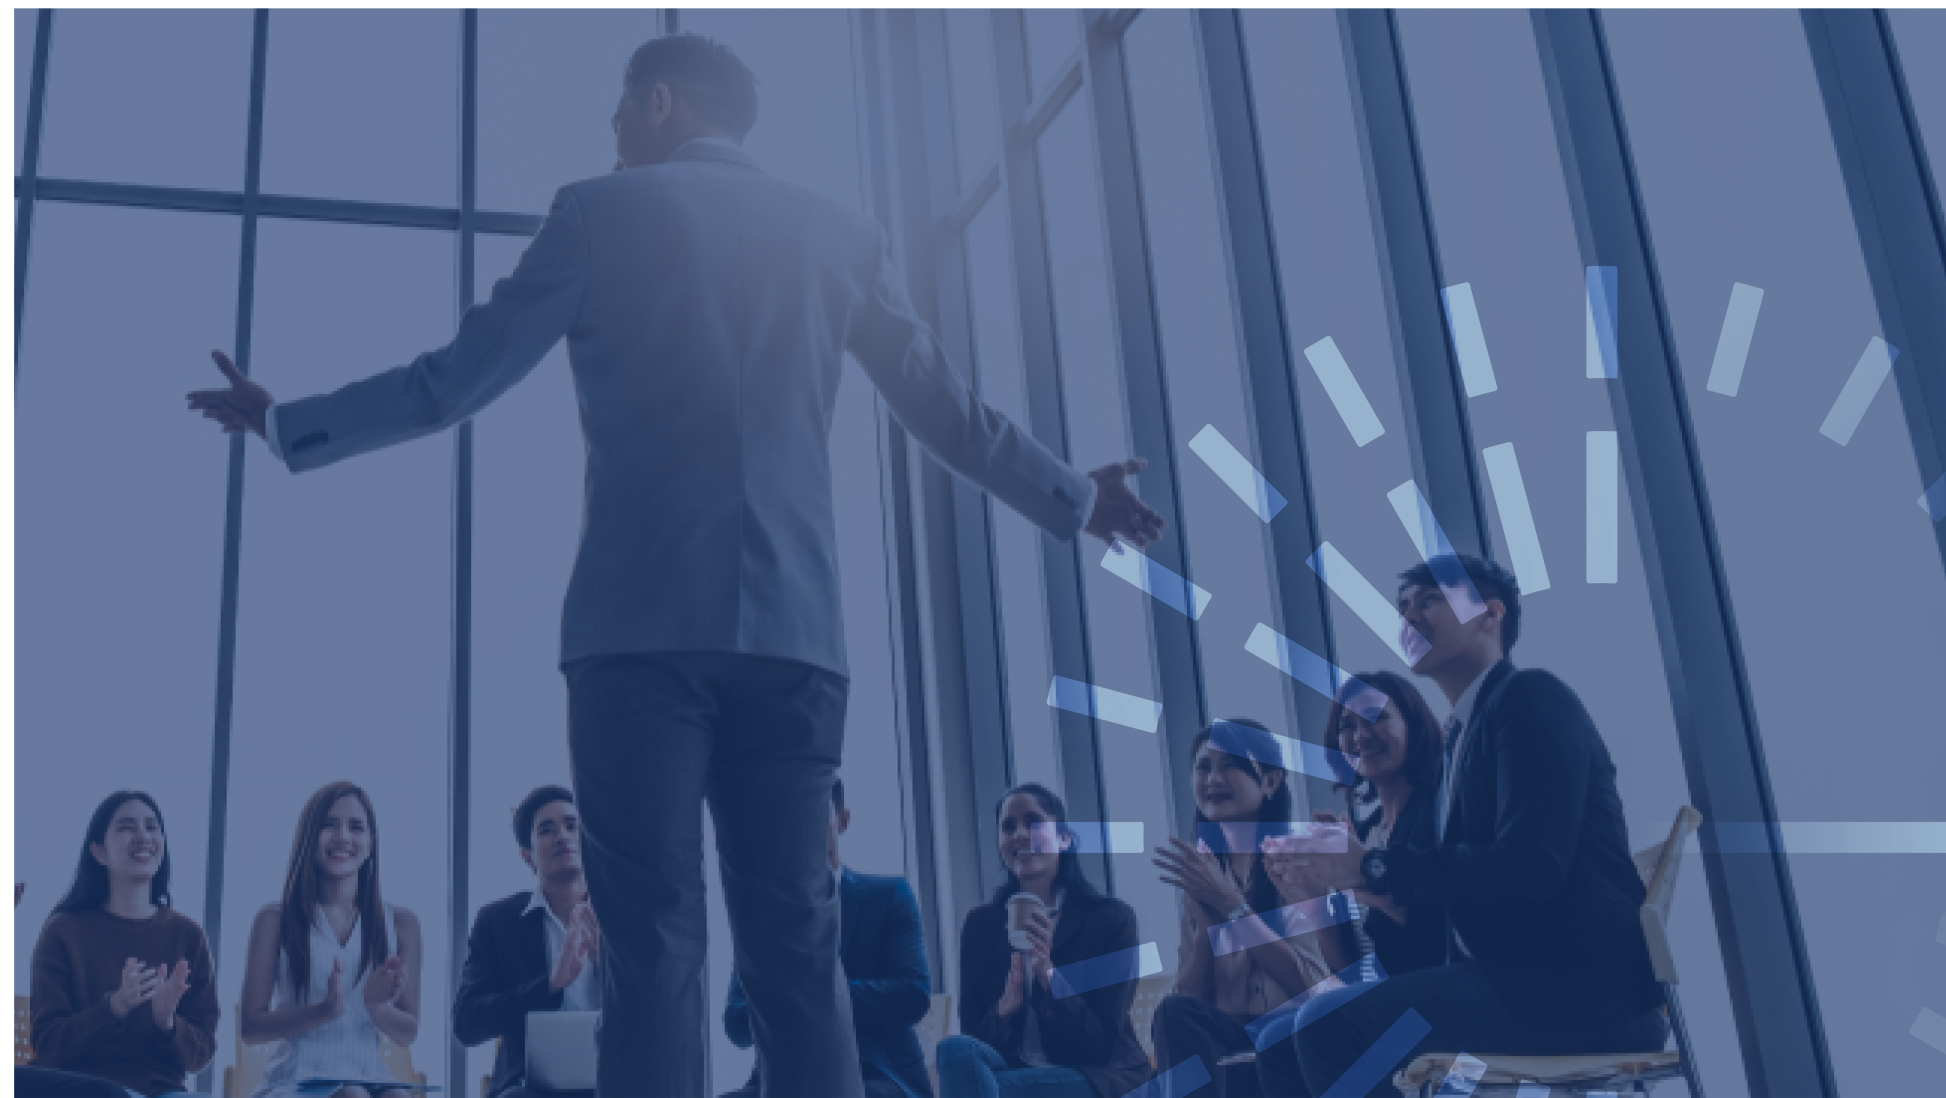
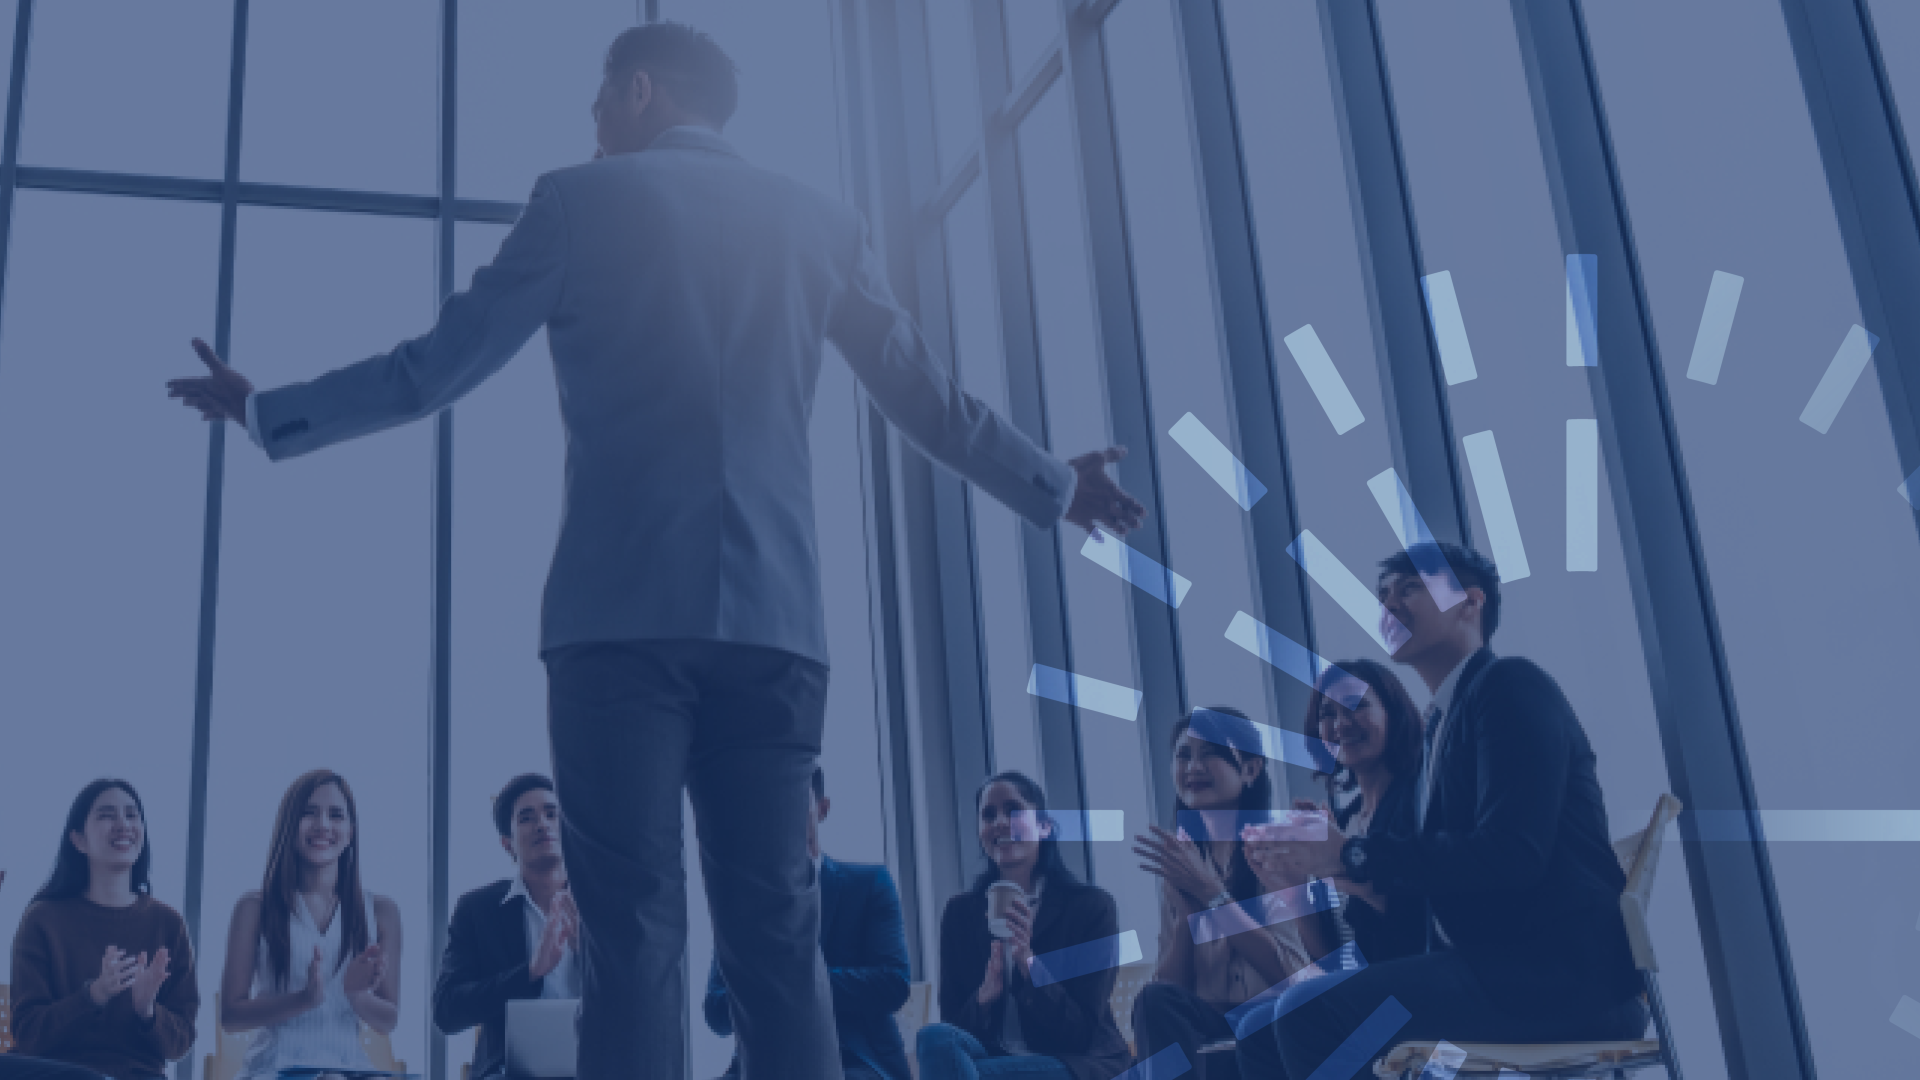
- Problema con fondo en Firefox. - Imagen en nosotros no estaba consumiendo todo el espacio, problema solucionado. - Pendiente por arreglar de parte de Daniel la alineación de los textos en los servicios ofrecidos.

diff --git a/css/responsive.css b/css/responsive.css
@@ -676,7 +676,7 @@
     height: 950px;
     background-repeat: no-repeat !important;
     background-position: center !important;
-    background-size: auto;
+    background-size: cover;
     background-attachment: fixed !important;
     margin-left: 0%;
     display: grid;
@@ -696,9 +696,8 @@
 
 .us-bg{
     background: url(../img/us-bg.png);
-    background-size: auto;
+    background-size: cover;
     background-attachment: fixed !important;
-    mix-blend-mode: soft-light;
     background-repeat: no-repeat !important;
     height: 950px;
     grid-area: 1/1/6/2

diff --git a/index_en.html b/index_en.html
@@ -267,7 +267,7 @@
                                 &nbsp;
                             </div>
                             <div class="col-xl-12 col-lg-12 col-sm-12 col-12">
-                                <img class="widtBtnCrearCuenta cemter" src="img/Logos/boton-14.svg">
+                                <img class="widtBtnCrearCuenta cemter" src="img/Logos/buttom.svg">
                             </div>
                         </div>
 

diff --git a/style.css b/style.css
@@ -128,14 +128,15 @@ button:focus {
 }
 
 .us-bg{
-    background: url(./img/us-bg.png);
+    background-image: url(../img/us-bg.png);
     background-size: auto;
     background-attachment: fixed !important;
-    mix-blend-mode: soft-light;
     background-repeat: no-repeat !important;
     height: 950px;
     grid-area: 1/1/6/2
 }
+
+
 
 .us > h1 {
     grid-area: 2/3/2/3;

diff --git a/js/active.js b/js/active.js
@@ -268,7 +268,6 @@ $(".navbar-toggler").click(function(){
 
 
 
-
 })(jQuery);
 // Se fetchea la API para ser consumida
 fetch('https://api.coindesk.com/v1/bpi/currentprice.json')
